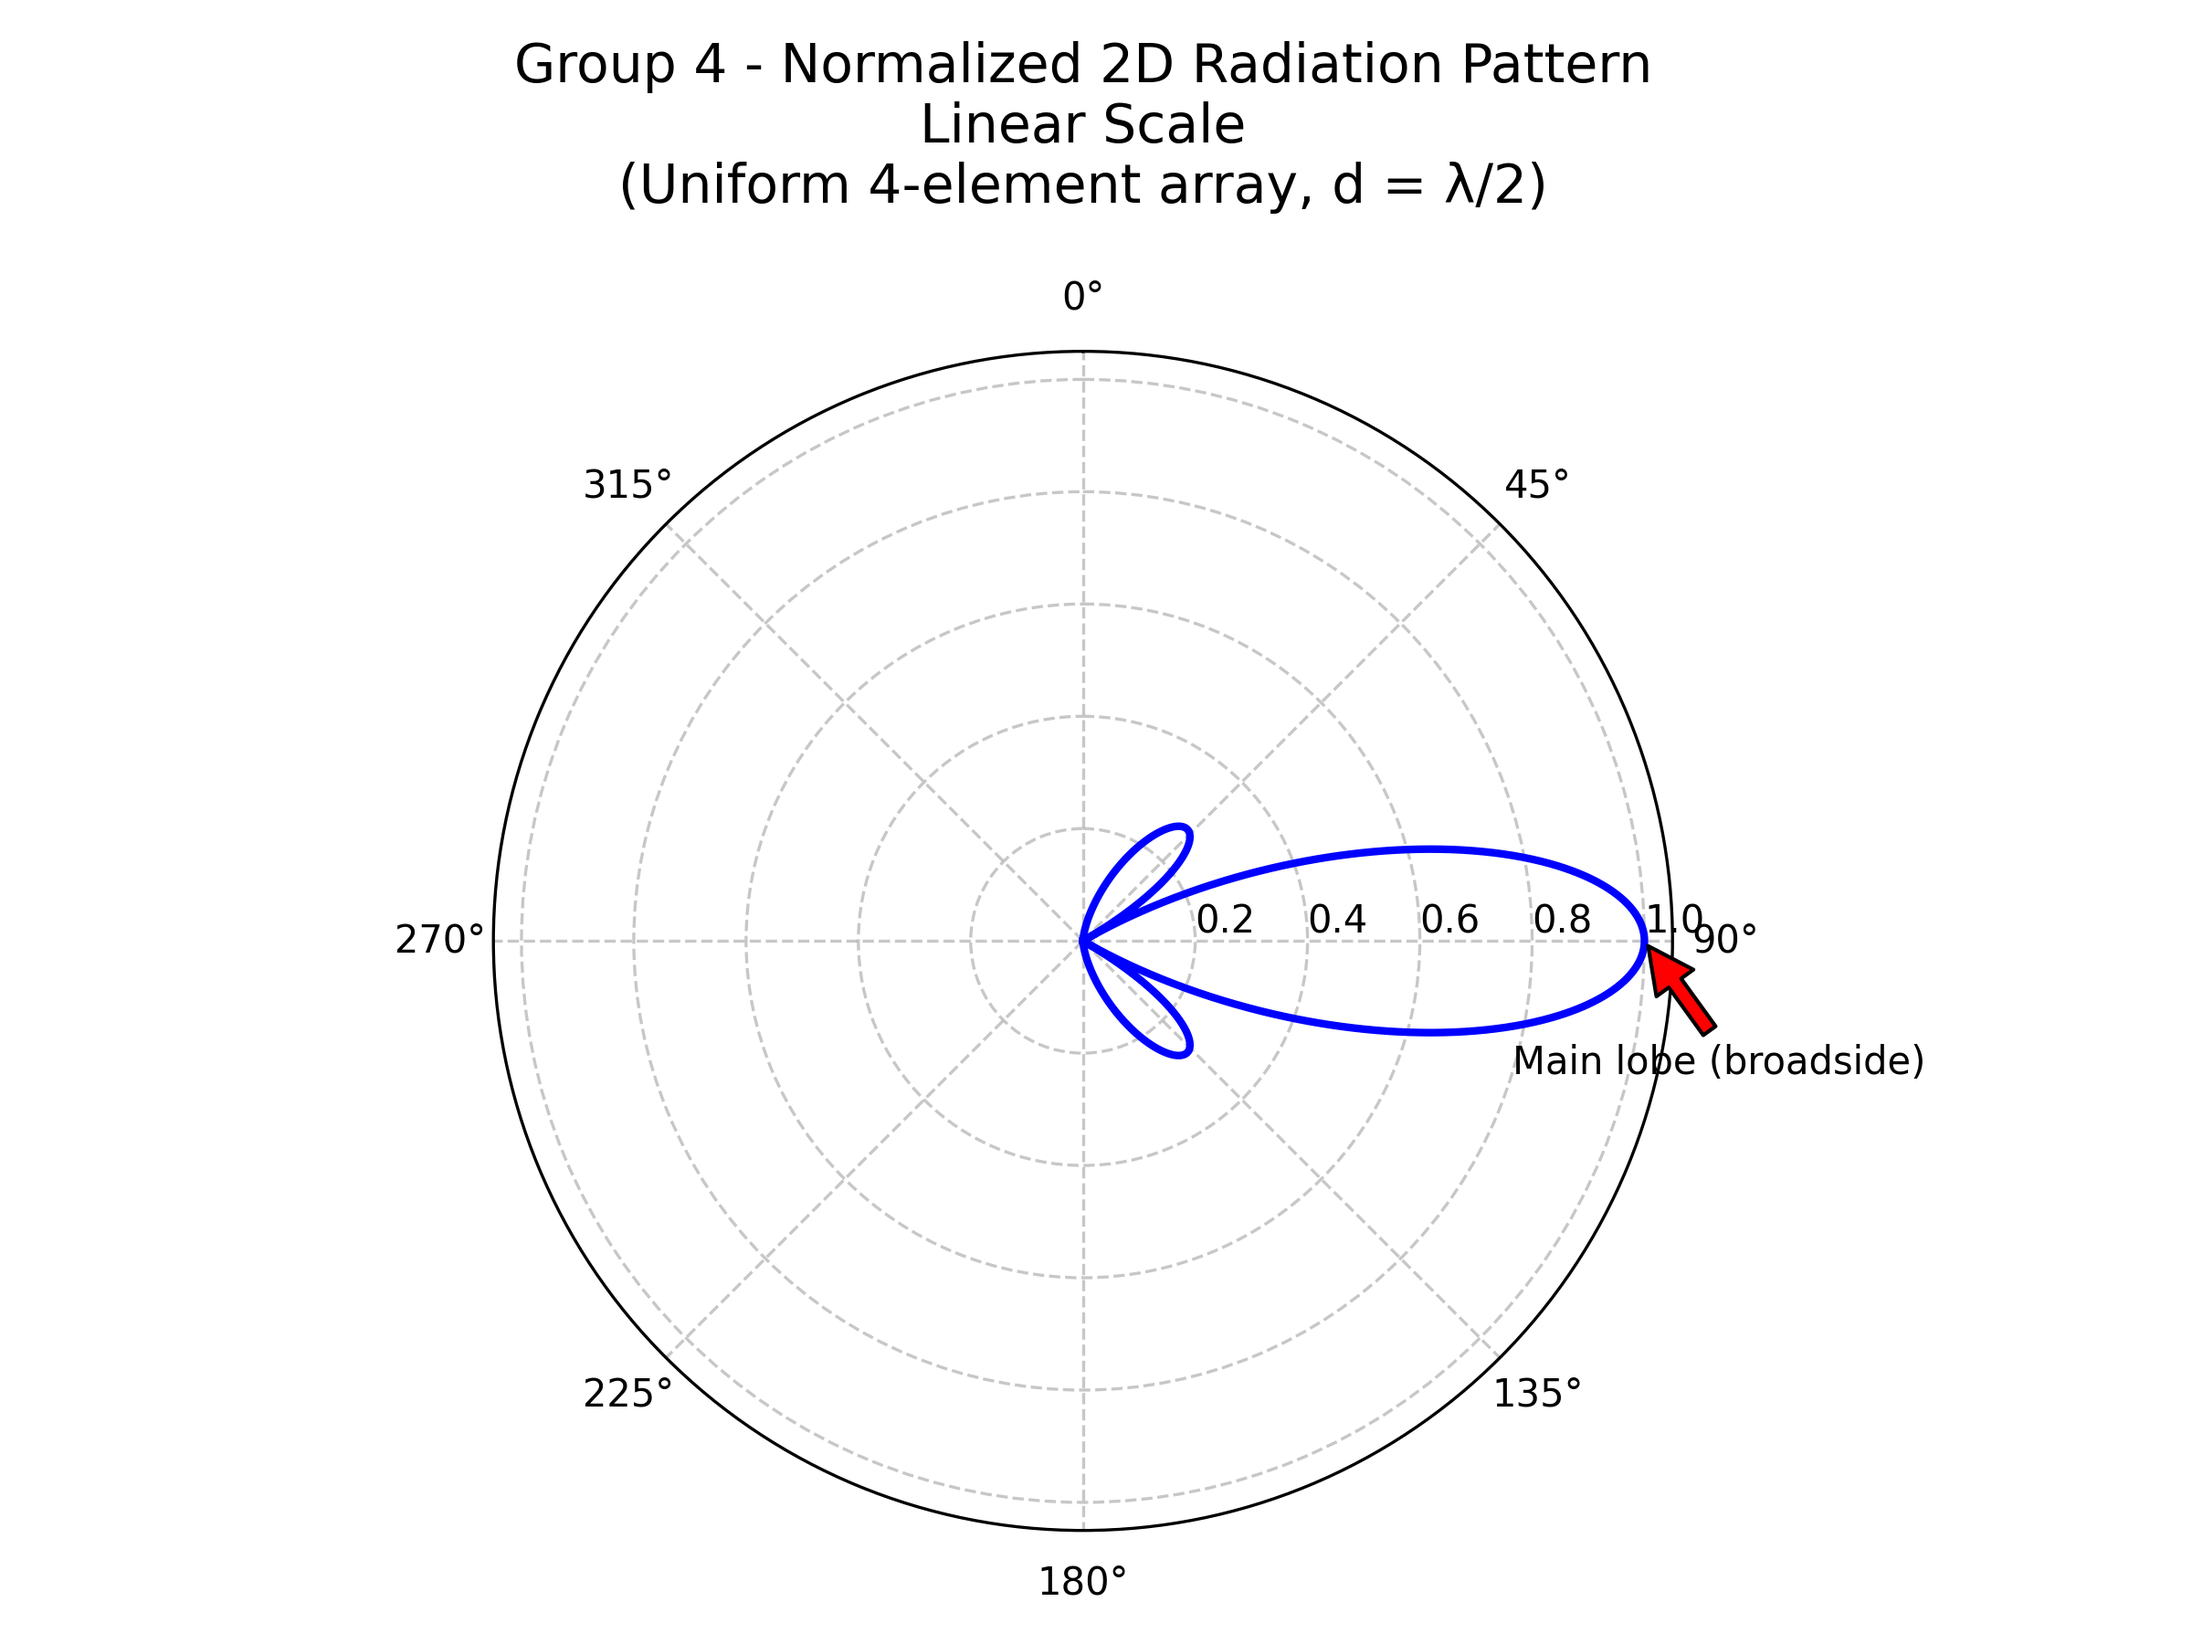
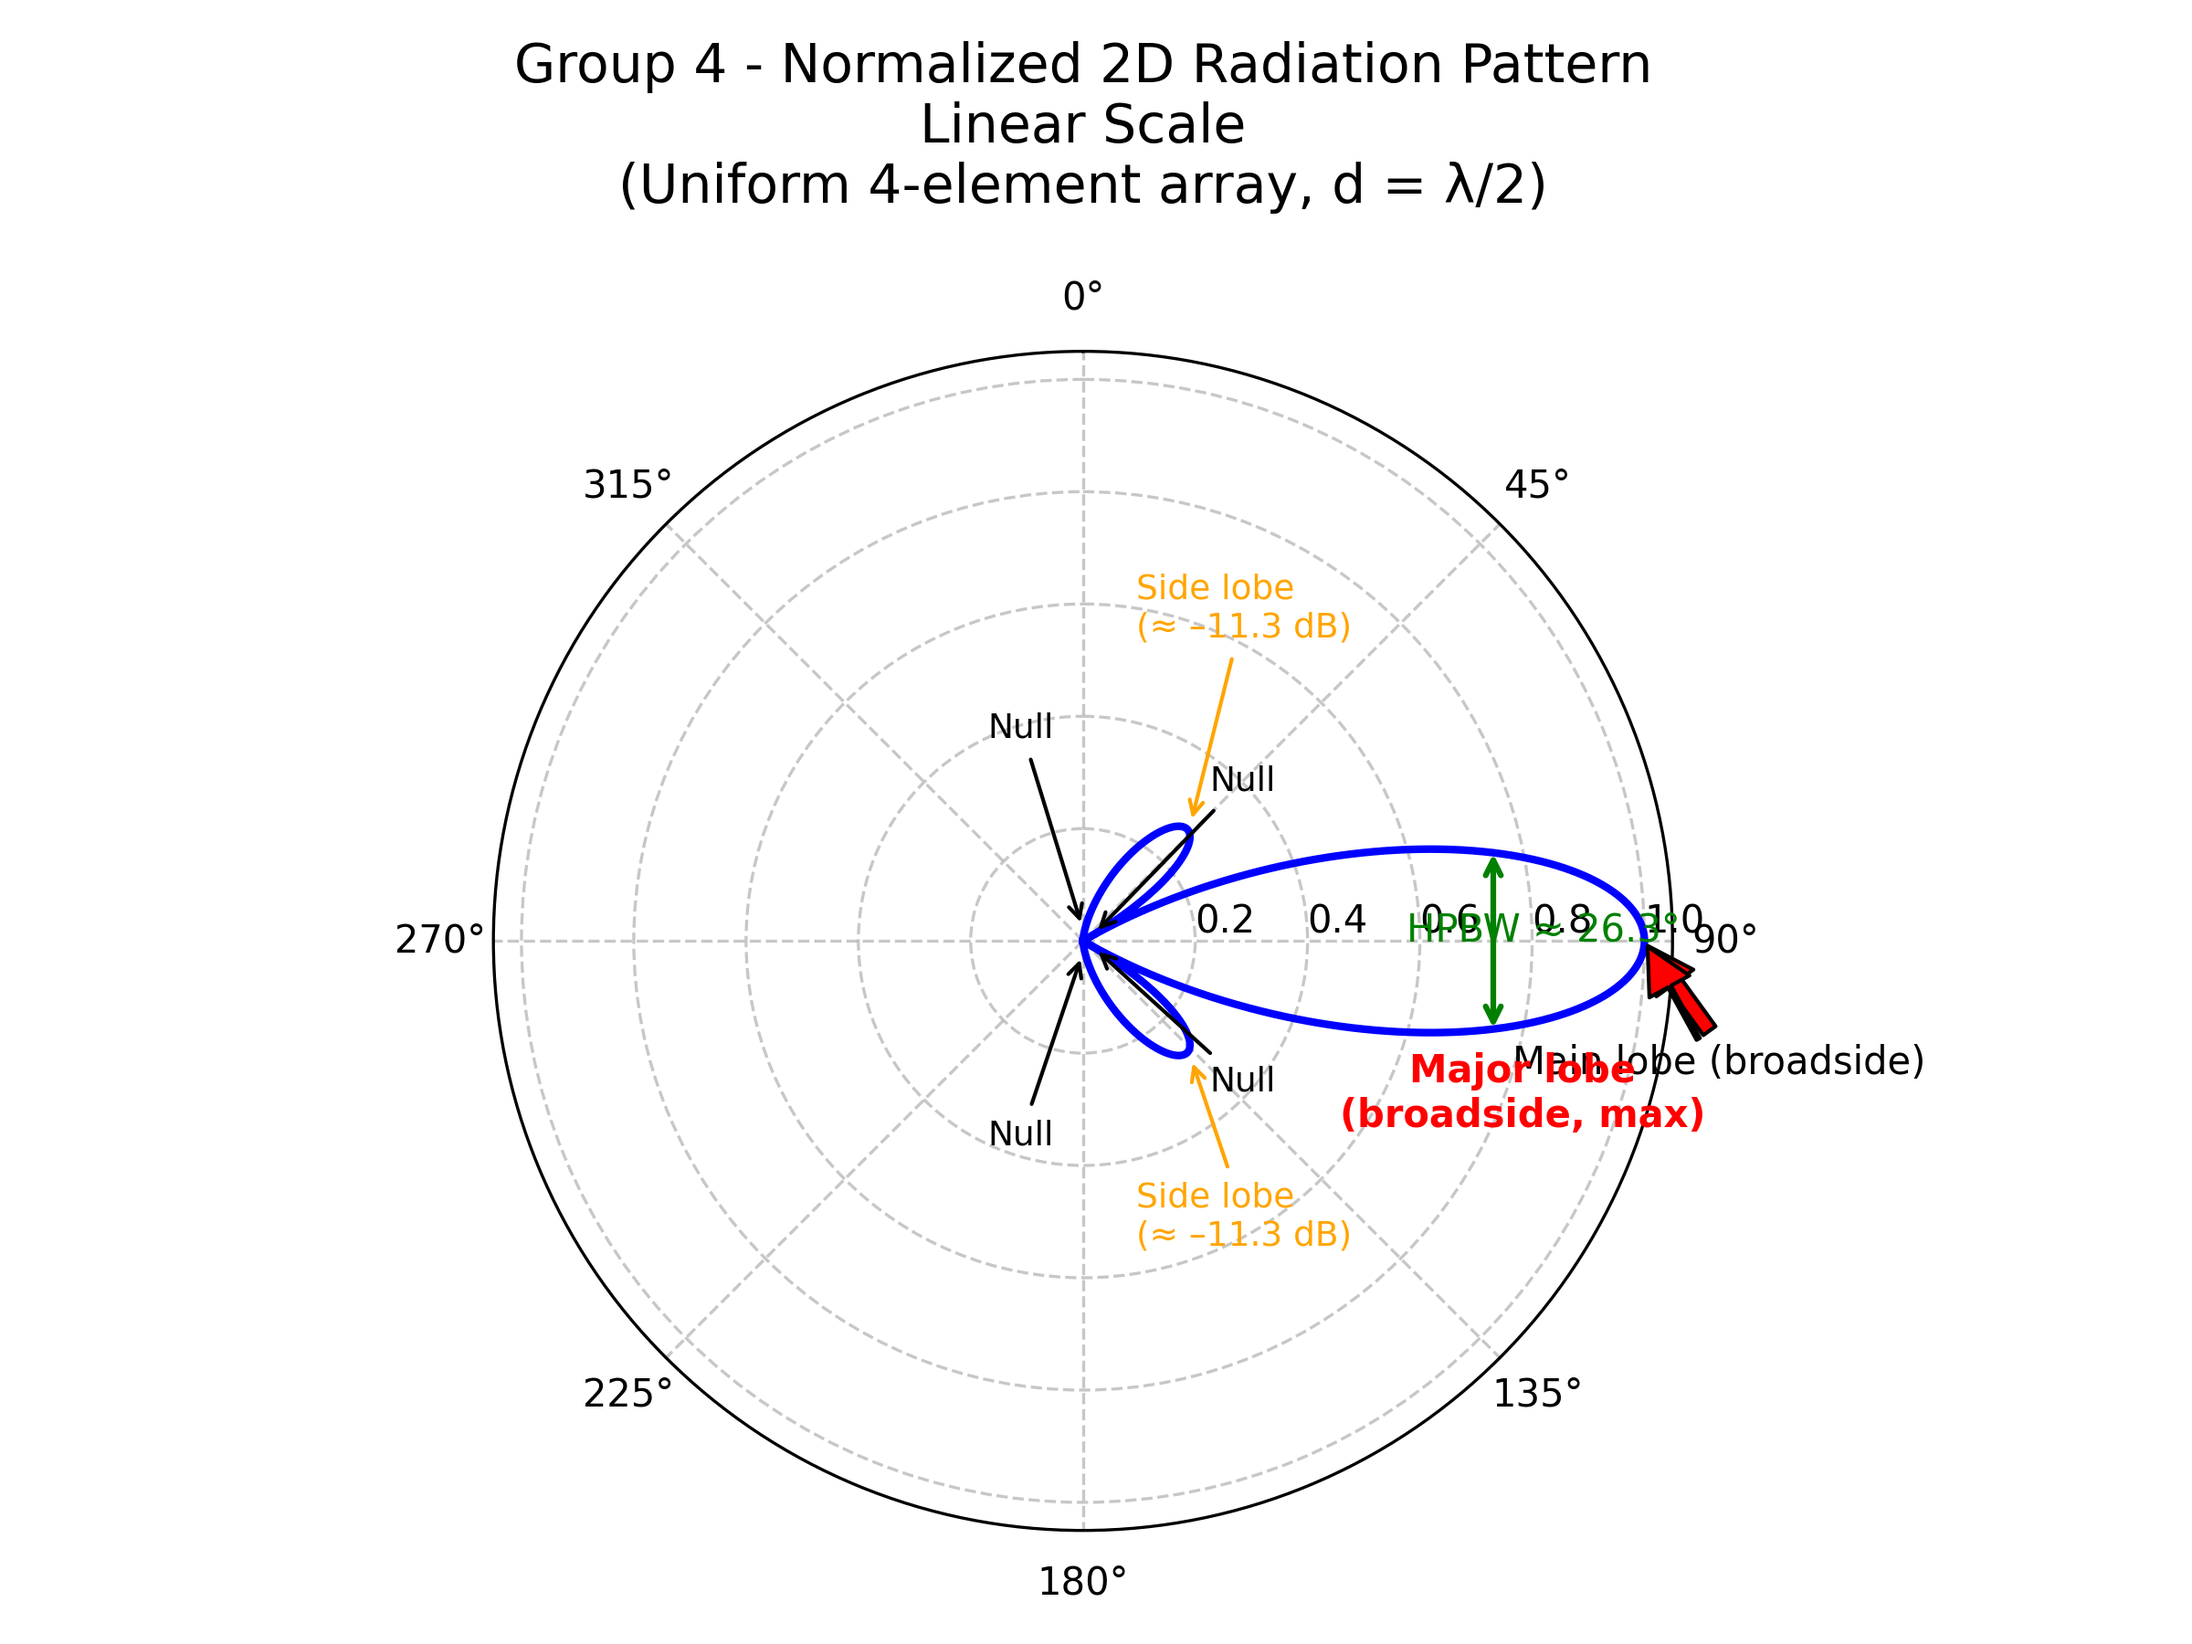
adding some labels to the simulations

diff --git a/2d-plot-v2.py b/2d-plot-v2.py
@@ -50,28 +50,81 @@ ax1.grid(True, linestyle='--', alpha=0.7)
 # Optional: label main lobe direction
 ax1.annotate('Main lobe (broadside)', xy=(np.pi/2, 1.0), xytext=(np.pi/2 + 0.3, 0.8),
              arrowprops=dict(facecolor='red', shrink=0.05), fontsize=10)
+ax1.annotate('Major lobe\n(broadside, max)',
+             xy=(np.pi/2, 1.0), xytext=(np.pi/2 + 0.4, 0.85),
+             arrowprops=dict(facecolor='red', shrink=0.05, width=1),
+             fontsize=10, ha='center', color='red', fontweight='bold')
 
+# Nulls
+ax1.annotate('Null', xy=(0, 0.02), xytext=(np.deg2rad(-25), 0.4),
+             arrowprops=dict(arrowstyle='->', color='black'), fontsize=9, color='black')
+ax1.annotate('Null', xy=(np.deg2rad(60), 0.02), xytext=(np.deg2rad(40), 0.35),
+             arrowprops=dict(arrowstyle='->', color='black'), fontsize=9, color='black')
+ax1.annotate('Null', xy=(np.deg2rad(120), 0.02), xytext=(np.deg2rad(140), 0.35),
+             arrowprops=dict(arrowstyle='->', color='black'), fontsize=9, color='black')
+ax1.annotate('Null', xy=(np.pi, 0.02), xytext=(np.deg2rad(205), 0.4),
+             arrowprops=dict(arrowstyle='->', color='black'), fontsize=9, color='black')
+
+# Side lobes
+ax1.annotate('Side lobe\n(≈ –11.3 dB)',
+             xy=(np.deg2rad(43), 0.28), xytext=(np.deg2rad(10), 0.55),
+             arrowprops=dict(arrowstyle='->', color='orange'), fontsize=9, color='orange')
+ax1.annotate('Side lobe\n(≈ –11.3 dB)',
+             xy=(np.deg2rad(137), 0.28), xytext=(np.deg2rad(170), 0.55),
+             arrowprops=dict(arrowstyle='->', color='orange'), fontsize=9, color='orange')
+
+# Beamwidth indicator (curved arrow)
+ax1.annotate('', xy=(np.deg2rad(77), 0.75), xytext=(np.deg2rad(103), 0.75),
+             arrowprops=dict(arrowstyle='<->', color='green', lw=1.5))
+ax1.text(np.deg2rad(90), 0.82, 'HPBW ≈ 26.3°',
+         fontsize=10, color='green', ha='center')
 plt.tight_layout()
 plt.savefig('Group4_2D_Polar_Linear.png', dpi=300)
 print("✅ 2D Polar Linear plot saved as 'Group4_2D_Polar_Linear.png'")
 
 # -------------------------- 2D PATTERN IN dB (RECTANGULAR) --------------------------
-F_db = 20 * np.log10(F_norm + 1e-12)   # Avoid log(0)
+F_db = 20 * np.log10(F_norm + 1e-12)
 
 fig2 = plt.figure(figsize=(10, 6))
-plt.plot(theta_deg, F_db, linewidth=2, color='red')
-plt.title('Group 4 - Normalized Radiation Pattern in dB\n(Uniform 4-element array, d = λ/2)', fontsize=14)
+plt.plot(theta_deg, F_db, linewidth=2.5, color='red')
+
+plt.title('Group 4 – Normalized Radiation Pattern in dB\n(Uniform 4-element array, d = λ/2)', fontsize=14)
 plt.xlabel('θ (degrees)')
 plt.ylabel('Magnitude (dB)')
-plt.grid(True, linestyle='--')
-plt.ylim(-40, 5)                       # Typical dB range for visibility
+plt.grid(True, linestyle='--', alpha=0.7)
+plt.ylim(-40, 5)
 plt.xlim(0, 180)
 
-# Mark key features
-plt.axhline(-3, color='green', linestyle='--', label='-3 dB (half-power)')
-plt.axvline(60, color='purple', linestyle='--', alpha=0.7)
-plt.axvline(120, color='purple', linestyle='--', alpha=0.7)
-plt.legend()
+# ====================== LABEL ALL REQUIRED FEATURES ======================
+# Nulls
+plt.axvline(0,   color='black', linestyle='--', alpha=0.8)
+plt.axvline(60,  color='black', linestyle='--', alpha=0.8)
+plt.axvline(120, color='black', linestyle='--', alpha=0.8)
+plt.axvline(180, color='black', linestyle='--', alpha=0.8)
+plt.text(5,   -35, 'Null', fontsize=10, color='black', rotation=90)
+plt.text(55,  -35, 'Null', fontsize=10, color='black', rotation=90)
+plt.text(115, -35, 'Null', fontsize=10, color='black', rotation=90)
+plt.text(172, -35, 'Null', fontsize=10, color='black', rotation=90)
+
+# Major lobe
+plt.text(90, 2, 'Major lobe\n(broadside)', fontsize=11,
+         color='red', ha='center', fontweight='bold')
+
+# Side lobes
+plt.text(43, -13, 'Side lobe\n(–11.3 dB)',
+         fontsize=10, color='orange', ha='center')
+plt.text(137, -13, 'Side lobe\n(–11.3 dB)',
+         fontsize=10, color='orange', ha='center')
+
+# Half-power beamwidth
+plt.axhline(-3, color='green', linestyle='--', linewidth=1.5, label='–3 dB')
+plt.axvline(76.8, color='green', linestyle=':', alpha=0.7)
+plt.axvline(103.2, color='green', linestyle=':', alpha=0.7)
+plt.annotate('HPBW ≈ 26.3°', xy=(90, -4), xytext=(90, -12),
+             arrowprops=dict(arrowstyle='<->', color='green', lw=1.5),
+             fontsize=11, color='green', ha='center')
+
+plt.legend(loc='upper right')
 
 plt.tight_layout()
 plt.savefig('Group4_2D_dB.png', dpi=300)

diff --git a/3d_plot_v2.py b/3d_plot_v2.py
@@ -46,7 +46,12 @@ surf = ax.plot_surface(x, y, z, cmap='viridis',
 
 ax.set_title('Group 4 - 3D Radiation Pattern\nUniform Linear Array of 4 Isotropic Elements (d = λ/2)\nRotational symmetry about z-axis',
              fontsize=14, pad=20)
-
+# Simple text labels (visible in most views)
+ax.text(0, 0, 1.15, 'Major lobe\n(broadside)',
+        color='red', fontsize=11, ha='center')
+ax.text(1.2, 0, 0.1, 'Null (end-fire)', color='black', fontsize=10)
+ax.text(-1.2, 0, 0.1, 'Null (end-fire)', color='black', fontsize=10)
+ax.text(0.6, 0.6, 0.3, 'Side lobe', color='orange', fontsize=9)
 ax.set_xlabel('X')
 ax.set_ylabel('Y')
 ax.set_zlabel('Z')
